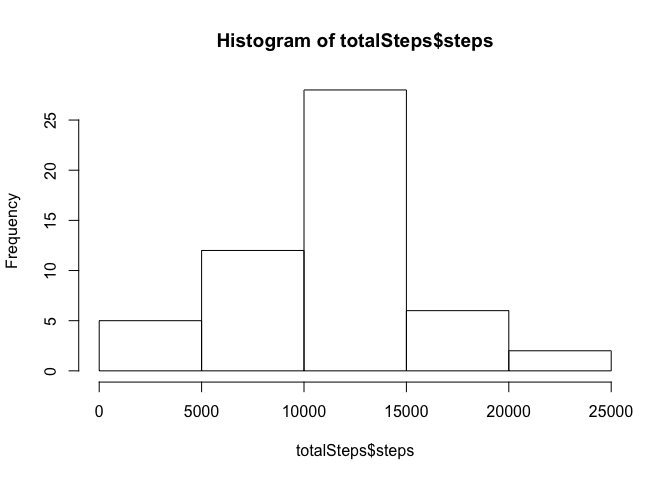
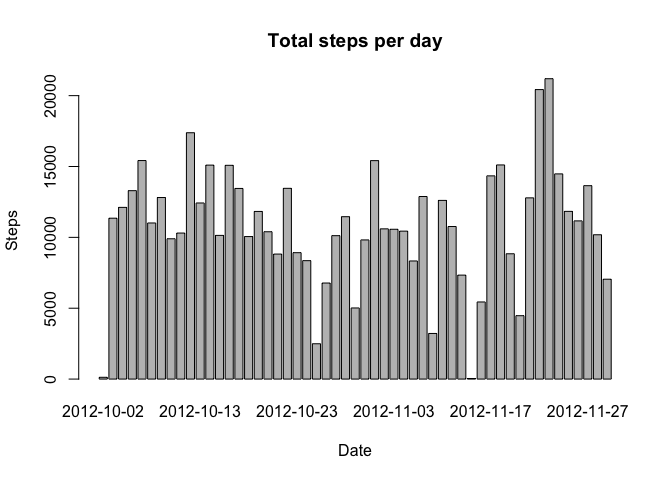
Final

diff --git a/PA1_template.md b/PA1_template.md
@@ -9,7 +9,7 @@ Calculate the total number of steps taken per day. Make a histogram of the total
 setwd("~/Desktop/Rstudio/RepData_PeerAssessment1")
 Data <- read.csv("activity.csv")
 totalSteps <-aggregate(steps~date,data=Data,sum,na.rm=TRUE)
-hist(totalSteps$steps)
+barplot(totalSteps$steps, names.arg = totalSteps$date, main= "Total steps per day",xlab = "Date", ylab = "Steps")
 ```
 
 ![](PA1_template_files/figure-markdown_github/unnamed-chunk-1-1.png)
